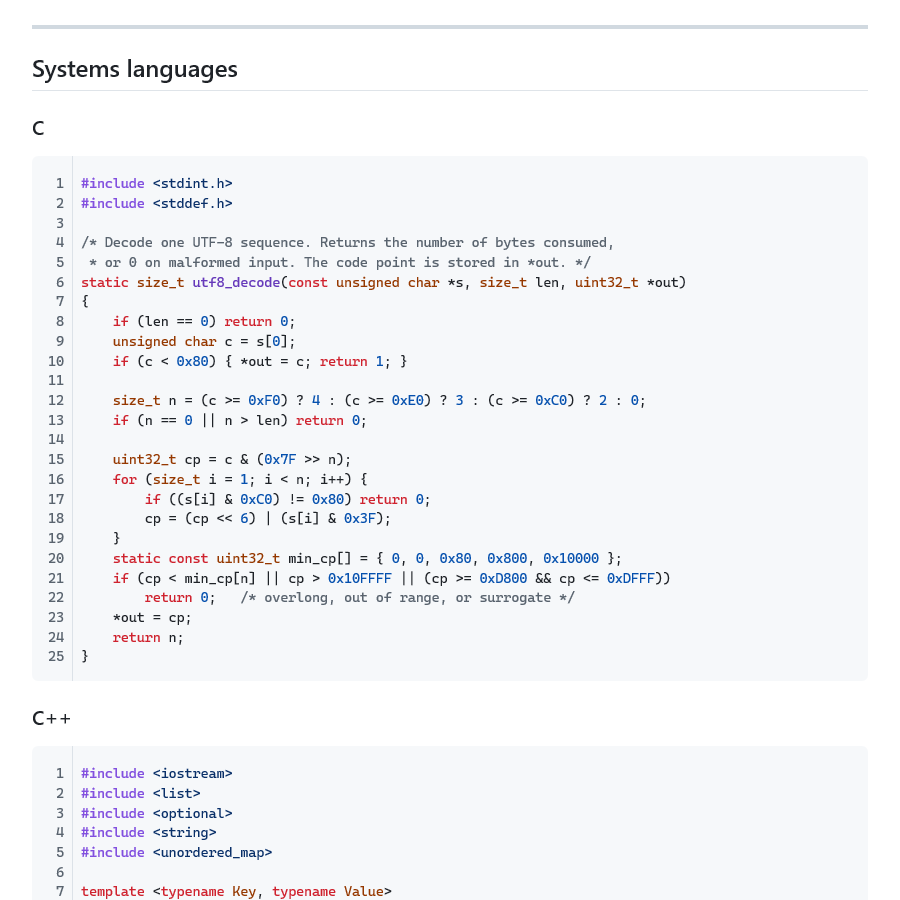
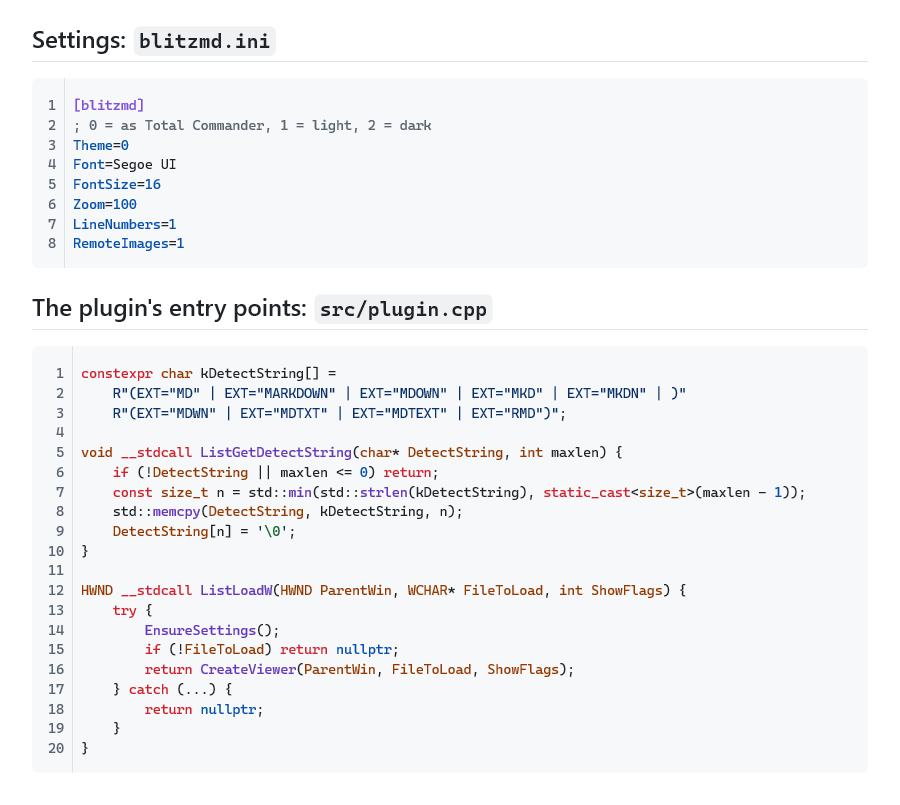
README screenshots show BlitzMD itself
The light screenshot showed the made-up "fastgrep" README of the samples.
The three screenshots now come from documents about BlitzMD in
docs/screenshots: an overview (logo, badges, a table of what it shows, a
task list, a tip), how it draws a document (a Mermaid flowchart, a formula,
alerts; dark theme) and code (blitzmd.ini, the plugin's entry points, with
line numbers). The badges are local SVGs, so nothing is fetched.
scripts/screenshots.ps1 takes them again with a build's renderer.

diff --git a/README.md b/README.md
@@ -11,9 +11,9 @@ else to install.
 
 | Light theme | Dark theme |
 |---|---|
-| ![BlitzMD showing a GitHub-style README in Total Commander, light theme](docs/screenshot-light.png) | ![BlitzMD showing GitHub alerts in Total Commander, dark theme](docs/screenshot-dark.png) |
+| ![BlitzMD's overview in BlitzMD, light theme: logo, badges, a table, a task list and a tip](docs/screenshot-light.png) | ![A Mermaid flowchart, a formula and GitHub alerts in BlitzMD, dark theme](docs/screenshot-dark.png) |
 
-![BlitzMD showing syntax-highlighted code blocks](docs/screenshot-code.png)
+![Syntax-highlighted code blocks with line numbers in BlitzMD](docs/screenshot-code.png)
 
 ## At a glance
 
@@ -282,7 +282,8 @@ GFM specification results: all 604 examples not about raw HTML match the referen
 (examples with HTML are interpreted on purpose, not shown as source). Runs under AddressSanitizer
 (`-DMDVIEW_ASAN=ON`) and the fuzzers are clean.
 
-`samples/gfm/` holds documents for checking by eye: a tour of the whole specification, a
+`scripts\screenshots.ps1` takes the README screenshots again from the documents in
+`docs/screenshots/`. `samples/gfm/` holds documents for checking by eye: a tour of the whole specification, a
 GitHub-style README, alerts, footnotes and math, 45+ programming languages, tables, lists,
 typography in 15+ languages (right-to-left included), edge cases and a 2.5 MB document.
 

diff --git a/docs/screenshots/overview.md b/docs/screenshots/overview.md
@@ -1,0 +1,35 @@
+<p align="center">
+  <img src="../../samples/logo.png" width="200" alt="BlitzMD logo">
+</p>
+
+<h1 align="center">BlitzMD</h1>
+
+<p align="center"><b>A fast Markdown viewer for Total Commander</b><br>
+<sub>Lister plugin · F3 and Ctrl+Q · no browser engine inside</sub></p>
+
+<p align="center">
+  <img src="badges/version.svg" alt="version 1.0.0">
+  <img src="badges/license.svg" alt="license MIT">
+  <img src="badges/total-commander.svg" alt="Total Commander 32/64-bit">
+  <img src="badges/windows.svg" alt="Windows 10 | 11">
+</p>
+
+Press <kbd>F3</kbd> on a `.md` file, or <kbd>Ctrl</kbd>+<kbd>Q</kbd> for Quick View, and the document
+shows the way GitHub renders it :zap:
+
+| What | How BlitzMD shows it |
+|---|---|
+| Tables, task lists, footnotes | GitHub Flavored Markdown 0.29 |
+| Alerts, emoji :rocket:, math | GitHub's extensions |
+| Mermaid diagrams | 30 types, drawn by the plugin itself |
+| Code blocks | about 70 languages, line numbers |
+| Light and dark themes | following Total Commander |
+
+- [x] Opens a 2.4 MB document in 0.12 s
+- [x] Pictures: PNG, JPEG, GIF, WebP, SVG
+- [x] Search, printing, thumbnails
+- [ ] Editing: BlitzMD is a viewer
+
+> [!TIP]
+> In Quick View (<kbd>Ctrl</kbd>+<kbd>Q</kbd>) the preview follows the cursor as you move through
+> the files.

diff --git a/docs/screenshots/code.md b/docs/screenshots/code.md
@@ -1,0 +1,37 @@
+## Settings: `blitzmd.ini`
+
+```ini
+[blitzmd]
+; 0 = as Total Commander, 1 = light, 2 = dark
+Theme=0
+Font=Segoe UI
+FontSize=16
+Zoom=100
+LineNumbers=1
+RemoteImages=1
+```
+
+## The plugin's entry points: `src/plugin.cpp`
+
+```cpp
+constexpr char kDetectString[] =
+    R"(EXT="MD" | EXT="MARKDOWN" | EXT="MDOWN" | EXT="MKD" | EXT="MKDN" | )"
+    R"(EXT="MDWN" | EXT="MDTXT" | EXT="MDTEXT" | EXT="RMD")";
+
+void __stdcall ListGetDetectString(char* DetectString, int maxlen) {
+    if (!DetectString || maxlen <= 0) return;
+    const size_t n = std::min(std::strlen(kDetectString), static_cast<size_t>(maxlen - 1));
+    std::memcpy(DetectString, kDetectString, n);
+    DetectString[n] = '\0';
+}
+
+HWND __stdcall ListLoadW(HWND ParentWin, WCHAR* FileToLoad, int ShowFlags) {
+    try {
+        EnsureSettings();
+        if (!FileToLoad) return nullptr;
+        return CreateViewer(ParentWin, FileToLoad, ShowFlags);
+    } catch (...) {
+        return nullptr;
+    }
+}
+```

diff --git a/docs/screenshots/diagrams.md b/docs/screenshots/diagrams.md
@@ -1,0 +1,25 @@
+## How BlitzMD draws a document
+
+```mermaid
+flowchart LR
+  md[".md file"] --> parser["md4c parser"]
+  parser --> tree["Block tree"]
+  tree --> layout["Layout<br>DirectWrite"]
+  layout --> d2d["Direct2D"]
+  d2d --> lister["Total Commander<br>Lister window"]
+  tree -. "diagrams, math" .-> layout
+```
+
+Only the part on screen is laid out exactly; the rest of the document is estimated from its text
+and pictures, and refined in the background:
+
+```math
+h_\text{estimate} = \left\lceil \frac{w_\text{text}}{w_\text{column}} \right\rceil \cdot h_\text{line} + \sum_{i} \max\left(0,\; h_{\text{picture}, i} - h_\text{line}\right)
+```
+
+> [!NOTE]
+> Diagrams and formulas are drawn by BlitzMD itself, without a browser or JavaScript, in GitHub's
+> light and dark colors.
+
+> [!IMPORTANT]
+> Links to programs, scripts and other computers' shares open only after a confirmation.
